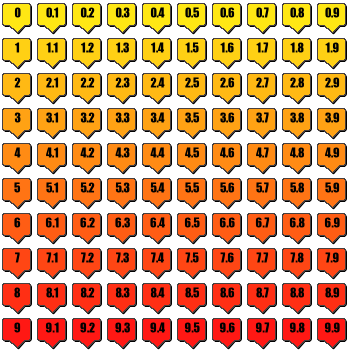
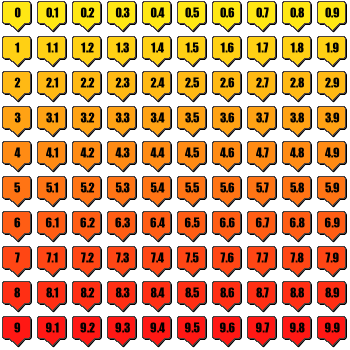
Updated quaketracker

diff --git a/markers/markers.js b/markers/markers.js
@@ -24,15 +24,42 @@ var outImage = __dirname + '/markers.png';
 
 fs.readFile(baseImage, function(err,data) {
 	if(err) throw err;
-	img = new Image;
+	var img = new Image;
 	img.src = baseImage;		
 	ctx.font = 'normal 12px Impact';
 	ctx.textAlign = 'center';
+	var color = [255, 255, 0, 235];
 	for(var magnitude = 0; magnitude <= 100; magnitude++) {
 		var y = 35 * Math.floor(magnitude/10),
 			x = ( 35*(magnitude % 10) );
-			
+		if(magnitude % 10 == 0){
+			color[1] = color[1] - 25;
+		}
+		
 		ctx.drawImage(img, x, y, 35,35);
+		
+		var imgData = ctx.getImageData(x, y, 35, 35);
+		if(imgData && imgData.data) {
+			try {
+				for(var pixel=0;pixel<imgData.data.length;pixel=pixel+4) {
+					var red = imgData.data[pixel]
+					var green = imgData.data[pixel+1];
+					var blue = imgData.data[pixel+2];
+					var alpha = imgData.data[pixel+3];
+						
+					if(red == 255 && green == 255 && blue == 255) {
+						imgData.data[pixel] = color[0];
+						imgData.data[pixel+1] = color[1];
+						imgData.data[pixel+2] = color[2];
+						imgData.data[pixel+3] = color[3];
+					}
+				}
+			} catch (err) { console.error(err.message); }
+		
+			/* imageData, dx, dy, sx, sy, sw, sh */
+			ctx.putImageData(imgData,x,y,0,0, 35, 35);
+		}
+		
 		ctx.fillText("" + parseFloat(magnitude / 10, 1), x + (35/2), y + (35/2), 35);
 	}
 	
